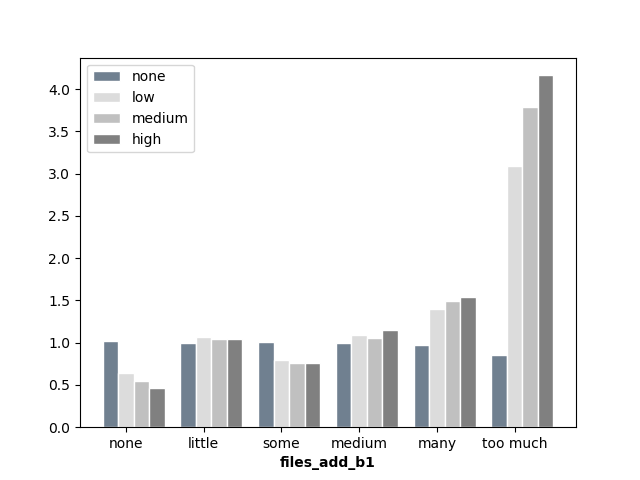
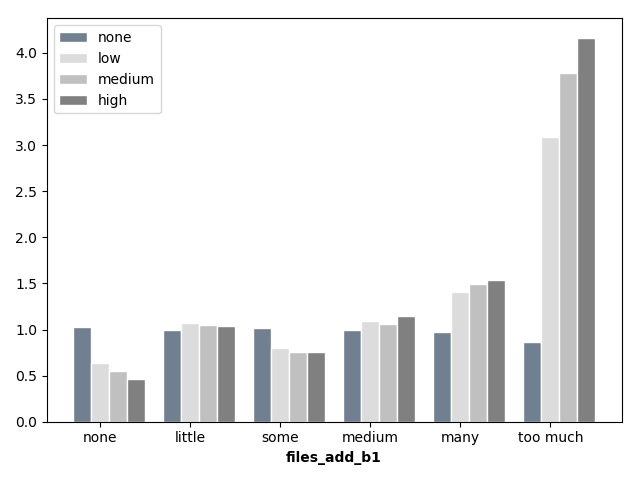
updates graphs

diff --git a/aux/plot_atts_nenhum.py b/aux/plot_atts_nenhum.py
@@ -66,7 +66,7 @@ def get_quantity(attribute):
 	'conflict_chunks': 4, \
 	'conflict_files': 4, \
 	'has_conflict': 2, \
-	'merge_type': 2, \
+	'merge_type': 1, \
 	'gap': 2, \
 	'X': 0}  
 
@@ -78,6 +78,10 @@ class Rule:
 		self.rhs = rhs
 		self.lift = lift
 
+def zeros_instead_of_none(rhs_list):
+	rhs_list = [0 if v is None else v for v in rhs_list]
+
+	return rhs_list
  
 def get_right_hand_side(rhs_value, attribute_values, quantity):
 	if(quantity == 6):
@@ -88,12 +92,24 @@ def get_right_hand_side(rhs_value, attribute_values, quantity):
 		get_positions = {'nenhum':0, 'pouco':1, 'médio':2, 'muito':3}
 	elif(quantity == 3):
 		get_positions = {'pouco':0, 'médio':1, 'muito':2}
-	#elif(quantity == 8):
-	#"nenhum", "até um minuto", "até meia hora","até uma hora","até um dia", "até uma semana", "até um mes", "mais de um mes"
+	elif(quantity == 8):
+		get_positions = {"nenhum":0, "atéumminuto":1, "atémeiahora":2,"atéumahora":3,"atéumdia":4, "atéumasemana":5, "atéummes":6, "maisdeummes":7}
+	
+	elif(quantity == 15):
+		get_positions = {"gap-maisdeummes" :0,"gap - até um mes":1,"gap - até uma semana":2,"gap - até um dia":3, "gap - até uma hora":4,"gap - até meia hora":5,"até um minuto":6, "nenhum":7, "até um minuto":8, "até meia hora":9,"até uma hora":10,"até um dia":11, "até uma semana":12, "até um mes":13, "mais de um mes":14}
+
+	elif(quantity == 1):
+		get_positions = {'workspace':0, 'branch':1}
+	elif(quantity == 2):
+		get_positions = {'True':0, 'False':1}
 	else:
 		print("Não implementado")
 
-	rhs = [None] * quantity
+	rhs = []
+	if(quantity != 1):
+		rhs = [None] * quantity
+	else:
+		rhs = [None] * 2
 	for rule in attribute_values:
 		if(rule.rhs ==  rhs_value):
 			rhs[get_positions[rule.lhs]] = rule.lift
@@ -144,24 +160,32 @@ def generate_graph(attribute, rhs_nenhum, rhs_pouco, rhs_medio, rhs_muito, quant
 		graph_values = ['little','some', 'medium', 'many', 'too much']
 	elif(quantity == 6):
 		graph_values = ['none','little','some', 'medium', 'many', 'too much']
+	elif(quantity == 8):
+		graph_values = ['none','< 1 min','< 1/2 hour', '< 1 hour', '< 1 day', '< 1 week', '< 1 month', '> 1 month']
+	#			get_positions = {"nenhum":0, "atéumminuto":1, "atémeiahora":2,"atéumahora":3,"atéumdia":4, "atéumasemana":5, "atéummes":6, "maisdeummes":7}
+	elif(quantity == 1):
+		graph_values = ['workspace', 'branch']
+	elif(quantity == 2):
+		graph_values = ['True', 'False']
 
 	plt.xticks([r + barWidth for r in range(len(rhs_nenhum))], graph_values)
-	 
+	
+	plt.tight_layout()
 	# Create legend & Show graphic
 	plt.legend()
+
 	#plt.show()
 	plt.savefig('graphs/' +attribute+'.png')
 	plt.clf()
 	plt.close()
 
 
+
+
 def check_lists(rhs_nenhum, rhs_pouco, rhs_medio, rhs_muito):
 	if(None in rhs_nenhum or None in rhs_pouco or None in rhs_medio or None in rhs_muito):
 		return False
 	return True
-
-
-
 
 
 data = pd.read_csv("~/Documents/git/merge-effort-mining/result/rules_extra_sup00001_conf_00001_nenhum.csv") 
@@ -216,7 +240,7 @@ for attribute in atributes_values:
 
 		#conflict_chunks example
 
-	if(quantity in range(3,7)):
+	if(quantity in range(1,9)):
 
 		rhs_nenhum = get_right_hand_side('nenhum', atributes_values[attribute], quantity)
 		print(rhs_nenhum)
@@ -227,12 +251,24 @@ for attribute in atributes_values:
 		rhs_muito = get_right_hand_side('muito', atributes_values[attribute], quantity)
 		print(rhs_muito)
 
+		has_none_values = True
 		if check_lists(rhs_nenhum, rhs_pouco, rhs_medio, rhs_muito):
-			generate_graph(attribute, rhs_nenhum, rhs_pouco, rhs_medio, rhs_muito, quantity)
-			
+			has_none_values = False
+			#generate_graph(attribute, rhs_nenhum, rhs_pouco, rhs_medio, rhs_muito, quantity, has_none)
+			pass
 		else:
 			attribute_none_values.append(attribute)
 			#print(attribute + ' has none values')
+			rhs_nenhum = zeros_instead_of_none(rhs_nenhum)
+			#print(rhs_nenhum)
+			rhs_pouco = zeros_instead_of_none(rhs_pouco)
+			#print(rhs_pouco)
+			rhs_medio = zeros_instead_of_none(rhs_medio)
+			#print(rhs_medio)
+			rhs_muito = zeros_instead_of_none(rhs_muito)
+			#print(rhs_muito)
+		generate_graph(attribute, rhs_nenhum, rhs_pouco, rhs_medio, rhs_muito, quantity)
+			
 	else:
 		attributes_not_in_range.append(attribute)
 		#print('else: ' + attribute)
